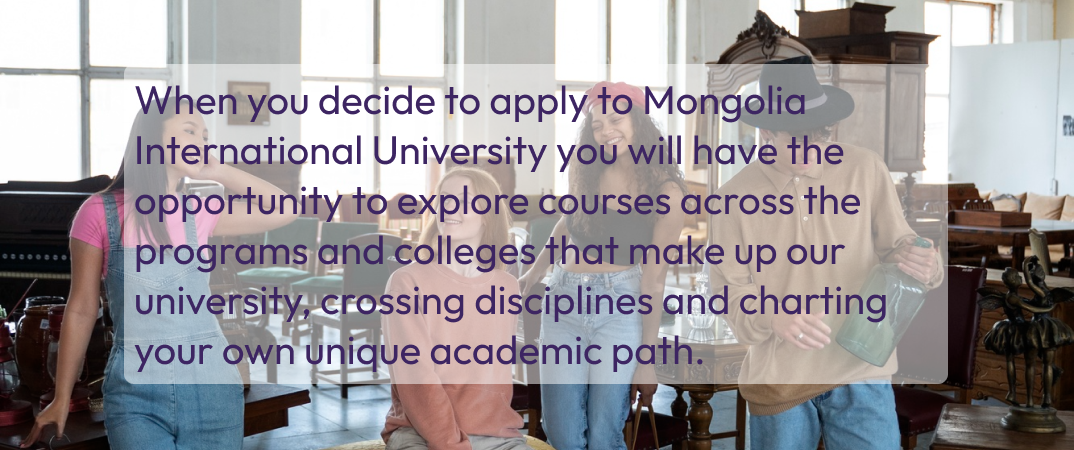
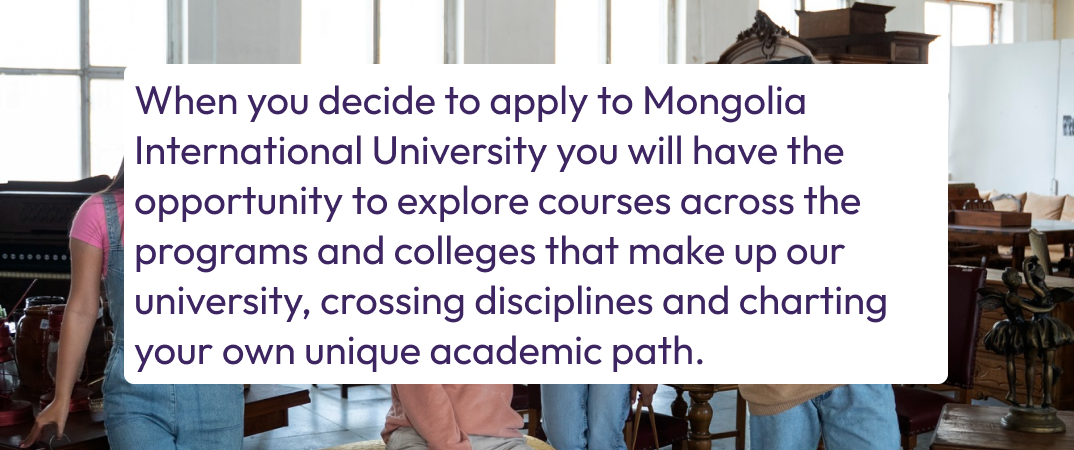
dorm finished

diff --git a/screens/Dorm/Dorm.js b/screens/Dorm/Dorm.js
@@ -15,76 +15,74 @@ const Dorm=({navigation})=>{
                 </View>
                 
                 <View style={{flexDirection: 'column'}}>
-                    <View style={{ width: width * 0.7, marginLeft: '1%', backgroundColor: 'white', height: width * 0.165, padding: 15 }}>
-                        <View style={{width: width * 0.65, marginLeft: '2%'}}>
-                            <FONT type={"Regular"} style={{ color: '#3D2562',fontSize: 22}}>GLOBAL RESIDENCE (DORMITORY): LOCATED ON MIU'S CAMPUS</FONT>
-                            <FONT type={"Body"} style={{marginTop: height * 0.03, color: '#3D2562', fontSize: 16}}>MIU believes that the first year of university is crucial in building a successful university life and that the MIU Global Residence will support all freshmen to swiftly adjust to campus life, develop their four-year academic plan, and offer all MIU freshmen to live in a close-knit environment for academic, cultural, and social interactions and development. 
-                                All freshmen are required to live in the dormitory on campus for their first year. Established in 2017, the dormitory is equipped with a kitchen, laundry facilities, internet access, and more. This building can house more than 200 students. While upperclassmen students are allowed to live in the Global Residence, freshmen students are given first priority. The Global Residence is led by the Dormitory Manager and upperclassmen students to ensure that freshmen are safe and healthy. </FONT>
-                        </View>
+                    <View style={{ width: width * 0.7, marginLeft: width * 0.01, backgroundColor: 'white', height: width * 0.165, padding: width * 0.01 }}>                        
+                        <FONT type={"Regular"} style={{ color: '#3D2562',fontSize: 22}}>GLOBAL RESIDENCE (DORMITORY): LOCATED ON MIU'S CAMPUS</FONT>
+                        <FONT type={"Body"} style={{marginTop: height * 0.03, color: '#3D2562', fontSize: 16}}>MIU believes that the first year of university is crucial in building a successful university life and that the MIU Global Residence will support all freshmen to swiftly adjust to campus life, develop their four-year academic plan, and offer all MIU freshmen to live in a close-knit environment for academic, cultural, and social interactions and development. 
+                            All freshmen are required to live in the dormitory on campus for their first year. Established in 2017, the dormitory is equipped with a kitchen, laundry facilities, internet access, and more. This building can house more than 200 students. While upperclassmen students are allowed to live in the Global Residence, freshmen students are given first priority. The Global Residence is led by the Dormitory Manager and upperclassmen students to ensure that freshmen are safe and healthy. </FONT>                      
                     </View>    
                     <View style={{flexDirection: 'row'}}>
-                        <View style={{ width: width * 0.26, marginLeft: '2%'}}>
-                            <View style={{ borderWidth: 2, borderColor: '#CDD4FB', marginTop: "5%", padding:15, backgroundColor: '#EDF0FF' }}>
+                        <View style={{ width: width * 0.26, marginLeft: width * 0.01}}>
+                            <View style={{ borderWidth: 2, borderColor: '#CDD4FB', marginTop: width * 0.02, padding: width * 0.01, backgroundColor: '#EDF0FF' }}>
                                 <FONT type={"Title3"} style={{fontSize: 20}}>
                                     Room Type
                                 </FONT>
                             </View>
-                            <View style={{ borderWidth: 2, borderColor: '#CDD4FB', marginTop: -2, padding:15}}>
+                            <View style={{ borderWidth: 2, borderColor: '#CDD4FB', marginTop: width * -0.001, padding: width * 0.01}}>
                                 <FONT type={"Body"} style={{ fontSize: 15}}>
                                     Room Type A: Big Room with 4 students
                                 </FONT>
                             </View>
-                            <View style={{ borderWidth: 2, borderColor: '#CDD4FB', marginTop: -2, padding:15}}>
+                            <View style={{ borderWidth: 2, borderColor: '#CDD4FB', marginTop: width * -0.001, padding: width * 0.01}}>
                                 <FONT type={"Body"} style={{ fontSize: 15}}>
                                     Room Type B: Medium Room with 4 students
                                 </FONT>
                             </View>
-                            <View style={{ borderWidth: 2, borderColor: '#CDD4FB', marginTop: -2, padding:15}}>
+                            <View style={{ borderWidth: 2, borderColor: '#CDD4FB', marginTop: width * -0.001, padding: width * 0.01}}>
                                 <FONT type={"Body"} style={{ fontSize: 15}}>
                                     Room Type C: Small Room with 2 students
                                 </FONT>
                             </View>
                         </View>
-                        <View style={{width: width * 0.26, marginLeft: '-0.6%', padding:5}}>
-                            <View style={{ borderWidth: 2, borderColor: '#CDD4FB', marginTop: '3.9%', padding:15, backgroundColor: '#EDF0FF' }}>
+                        <View style={{width: width * 0.26, marginLeft: width * -0.011, padding: width * 0.01}}>
+                            <View style={{ borderWidth: 2, borderColor: '#CDD4FB', marginTop: width * 0.01, padding: width * 0.01, backgroundColor: '#EDF0FF' }}>
                                 <FONT type={"Title3"} style={{fontSize: 20}}>
                                     Housing Fee (₮)
                                 </FONT>
                             </View>
-                            <View style={{ borderWidth: 2, borderColor: '#CDD4FB', marginTop: -2.5, padding:15 }}>
+                            <View style={{ borderWidth: 2, borderColor: '#CDD4FB', marginTop: width * -0.001, padding: width * 0.01 }}>
                                 <FONT type={"Body"} style={{ fontSize: 15}}>
                                     ₮750,000
                                 </FONT>
                             </View>
-                            <View style={{ borderWidth: 2, borderColor: '#CDD4FB', marginTop: -2, padding:15 }}>
+                            <View style={{ borderWidth: 2, borderColor: '#CDD4FB', marginTop: width * -0.001, padding: width * 0.01 }}>
                                 <FONT type={"Body"} style={{ fontSize: 15}}>
                                     ₮750,000
                                 </FONT>
                             </View>
-                            <View style={{ borderWidth: 2, borderColor: '#CDD4FB', marginTop: -2, padding:15 }}>
+                            <View style={{ borderWidth: 2, borderColor: '#CDD4FB', marginTop: width * -0.001, padding: width * 0.01 }}>
                                 <FONT type={"Body"} style={{ fontSize: 15}}>
                                     ₮750,000
                                 </FONT>
                             </View>
                         </View> 
-                        <View style={{marginLeft: '1%', marginTop: '1.8%'}}>
-                            <View style={[styles.infoContainer, {width: width * 0.17, height: height * 0.17}]}>
-                                <View style={{flexDirection: 'row',marginTop: '1%'}}>
+                        <View style={{marginLeft: width * 0.01, marginTop: width * 0.018}}>
+                            <View style={[styles.infoContainer, {width: width * 0.17, height: width * 0.08}]}>
+                                <View style={{flexDirection: 'row',marginTop: width * -0.001}}>
                                     <Clock width={24} height={28}/>
-                                    <View style={{marginLeft: '5%'}}>
+                                    <View style={{marginLeft: width * 0.01}}>
                                         <FONT type="Title2" style={{fontSize: 18}}>Duration</FONT>
                                         <FONT style={{fontSize: 18}}>A full semester (3 months)</FONT>
                                     </View>
                                 </View>
-                                <View style={{flexDirection: 'row', marginTop: '1%', }}>
+                                <View style={{flexDirection: 'row', marginTop: width * -0.001}}>
                                     <Calendar width={25} height={25}/>
-                                    <View style={{marginLeft: '5%'}}>
+                                    <View style={{marginLeft: width * 0.01}}>
                                         <FONT type="Title2" style={{fontSize: 18}}>Contatc Us</FONT>
                                         <FONT style={{fontSize: 18}}>dir_student@miu.edu.mn</FONT>
                                     </View>
                                 </View>
                             </View>
-                            <Button type="Apply2" text={"APPLY"} style={{ marginTop: '8%', marginLeft: '2%'}} ></Button>
+                            <Button type="Apply2" text={"APPLY"} style={{ marginTop: width * 0.013, marginLeft: width * 0.001}} ></Button>
                         </View>
                     </View>
                 </View>

diff --git a/screens/Admissions/Overview.js b/screens/Admissions/Overview.js
@@ -39,11 +39,11 @@ const Overview= ({ navigation }) => {
                             
                         </View>
                         <View style={{flexDirection: 'row'}}>
-                            <View style={{marginBottom: '20%'}}>
+                            <View style={{marginBottom: width * 0.01}}>
                                 <Image source={require('../../assets/images/overview-4.png')} style={{width: width * 0.2, height: width * 0.13}} resizeMode="contain"/>
                             </View>
-                            <View style={{ marginTop: width * 0.0015, marginLeft: width * 0.01}}>
-                                <Image source={require('../../assets/images/overview-5.png')} style={{width: width * 0.38, height: width * 0.1}} resizeMode="contain"/>
+                            <View style={{ marginTop: width * 0.001, marginLeft: width * 0.01}}>
+                                <Image source={require('../../assets/images/overview-5.png')} style={{width: width * 0.38, height: width * 0.16}} resizeMode="contain"/>
                             </View>
                             <View style={{marginLeft: width * 0.01  }}>
                                 <Image source={require('../../assets/images/overview-6.png')} style={{width: width * 0.2, height: width * 0.13}} resizeMode="contain"/>
@@ -51,7 +51,7 @@ const Overview= ({ navigation }) => {
                             
                         </View>
                         <View>
-                            <View style={{width: width * 0.35, marginLeft: width * 0.001, backgroundColor: 'rgba(000, 240, 255, 0.3)', height: 115, padding: 10}}>
+                            <View style={{width: width * 0.35, marginLeft: width * 0.001, backgroundColor: 'rgba(000, 240, 255, 0.3)', height: 115, padding: width * 0.01}}>
                                 <FONT type="Body" style={{ color: 'white'}}> When you decide to apply to Mongolia International University you will have the opportunity to explore courses across the programs and colleges that make up our university, crossing disciplines and charting your own unique academic path. </FONT>
                             </View>
                         </View>

diff --git a/App.js b/App.js
@@ -51,17 +51,17 @@ const App = () => {
         <Stack.Screen name="2 + 2 program" component={Twoplus2} />
         <Stack.Screen name="Exchange student Program" component={Exchange} /> 
         <Stack.Screen name="Academic Calendar" component={AcademicCal} /> */}
-        {/* <Stack.Screen name="Dorm" component={Dorm} /> 
-        <Stack.Screen name="English Foundation Course" component={Lei_1} />
+        <Stack.Screen name="Dorm" component={Dorm} /> 
+        {/* <Stack.Screen name="English Foundation Course" component={Lei_1} />
         <Stack.Screen name="English Evening Course" component={Lei_2} />
         <Stack.Screen name="Business English Course" component={Lei_3} />
         <Stack.Screen name="Mongolian Course" component={Lei_4} />
         <Stack.Screen name="Additional Language Course" component={Lei_5} />
         <Stack.Screen name="About us" component={AboutUs} />
         <Stack.Screen name="Our people" component={OurPeople} />
-        <Stack.Screen name="Plan and Report" component={PlanReport} /> */}
+        <Stack.Screen name="Plan and Report" component={PlanReport} />
         <Stack.Screen name="Over View" component={Overview} /> 
-        {/* <Stack.Screen name="Scholarship" component={Scholarship1} />
+        <Stack.Screen name="Scholarship" component={Scholarship1} />
         <Stack.Screen name="Another" component={AnotherScreen} /> */}
       </Stack.Navigator>
     </NavigationContainer>
